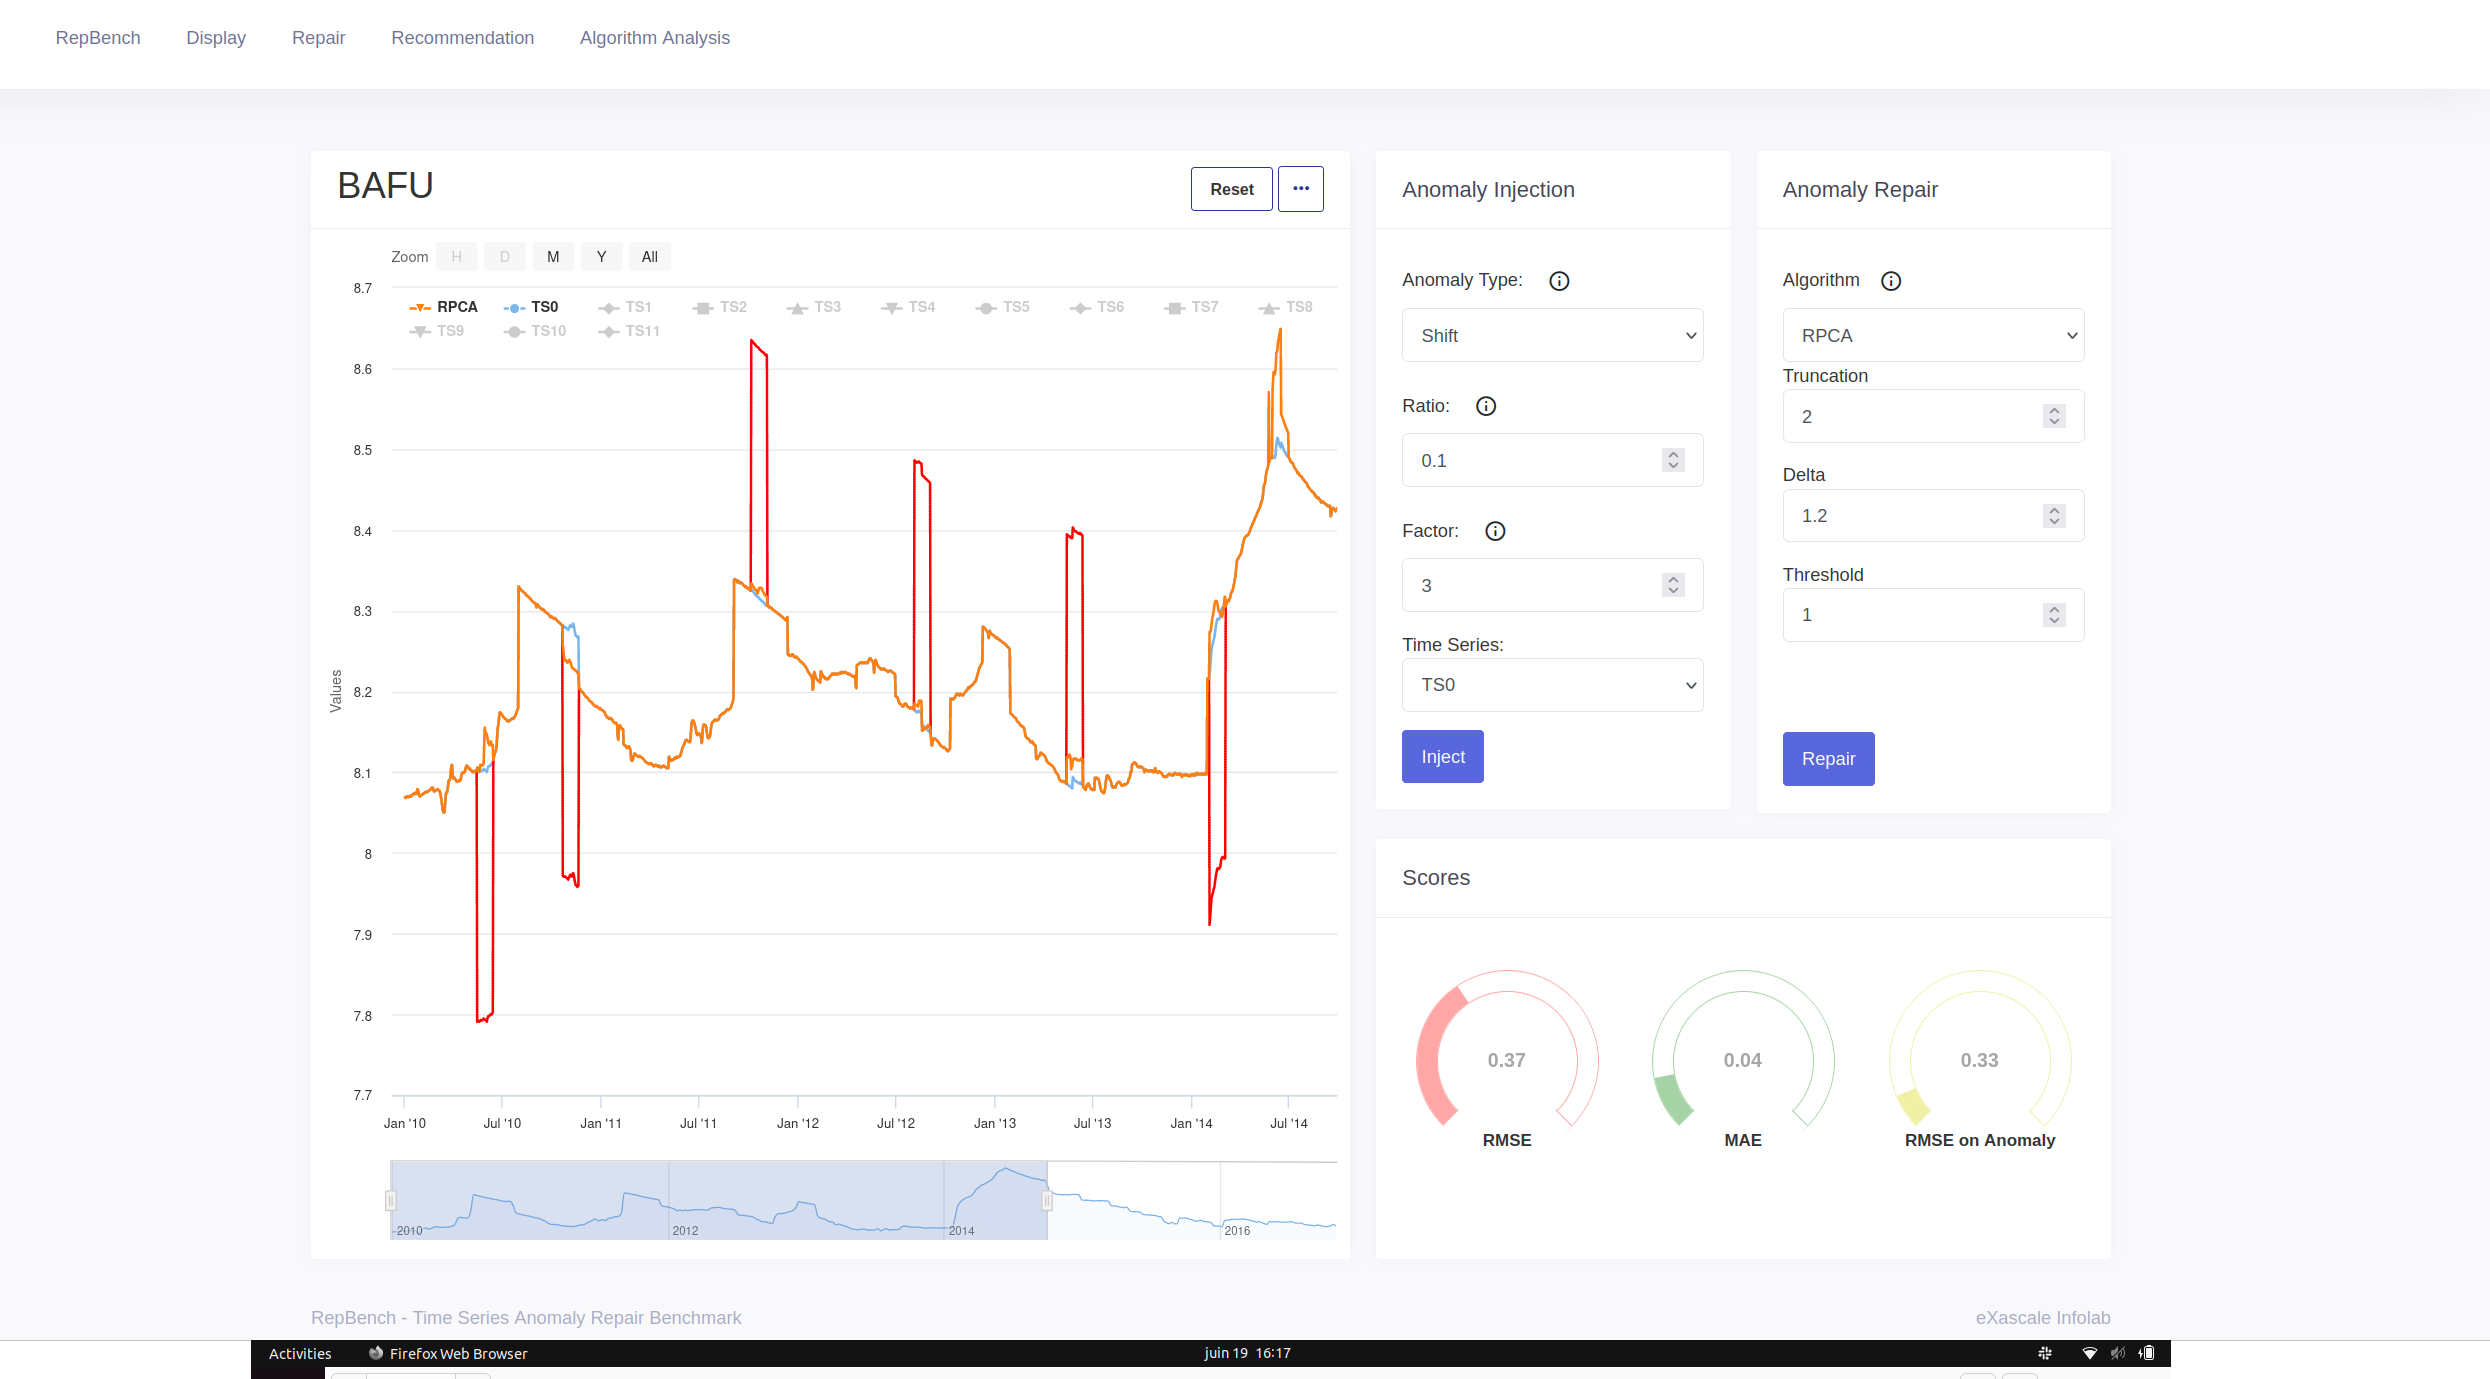
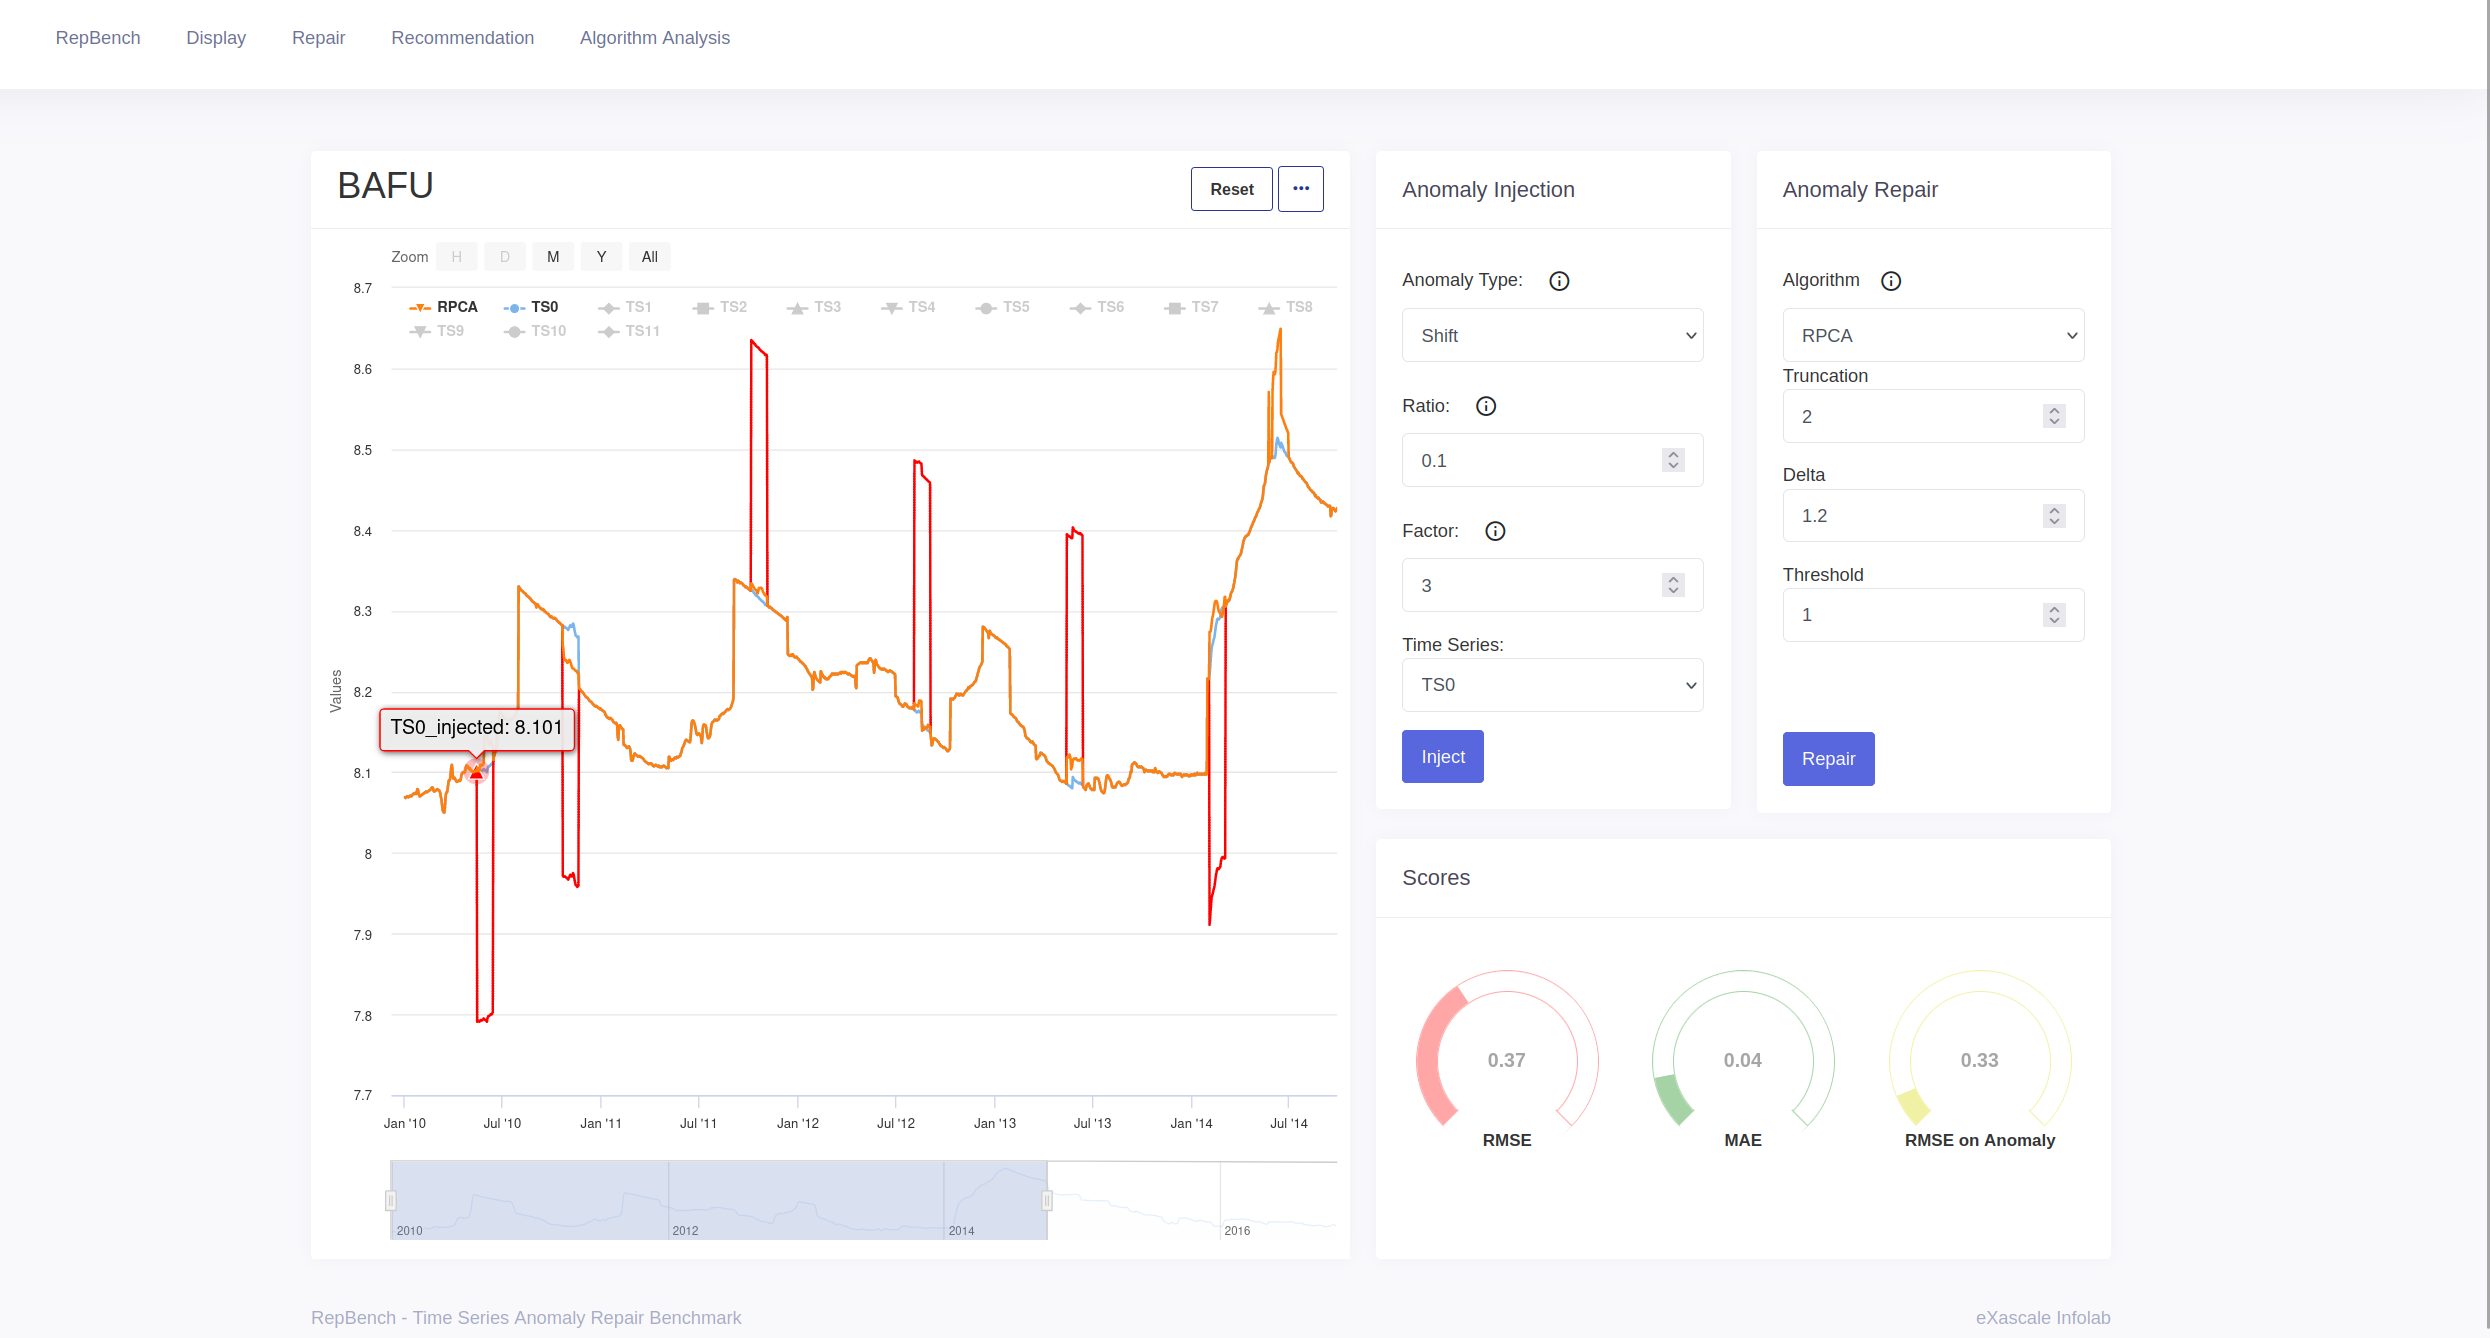
refactored testing frame work code and and recommendation tried other version of sucessing halving updated readme

diff --git a/README.md b/README.md
@@ -160,11 +160,14 @@ We show the conventional metrics for anomaly repair: root mean square error (RMS
 
 <img align="center" width="1100"  height="400" src="plots/inject_and_repair.png">
 
-## Optimization
-Run an experiment using Bayesian optimization on a set of synthetic data by defining the range of parameters to test and the optimization algorithm. Visualize the results by plotting the error being minimized and the specific parameter values used in each step of the optimization process.
+[//]: # (## Optimization)
 
-<img align="center" width="600"  height="400" src="screenshots/optimization.png">
+[//]: # (Run an experiment using Bayesian optimization on a set of synthetic data by defining the range of parameters to test and the optimization algorithm. Visualize the results by plotting the error being minimized and the specific parameter values used in each step of the optimization process.)
 
+[//]: # ()
+[//]: # (<img align="center" width="600"  height="400" src="screenshots/optimization.png">)
+
+[//]: # ()
 
 
 
